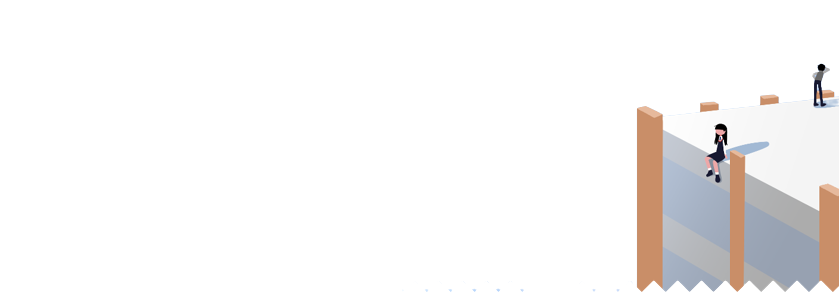
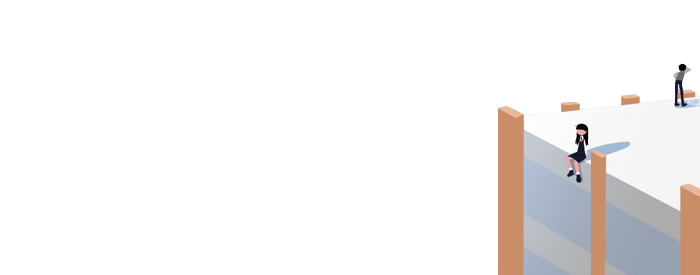
0623

Changed region(s): [[0.69, 0.32, 1.0, 1.0], [0.96, 0.2036, 1.0, 0.4073]]

diff --git a/React/react-study02/src/component/Survey/Page.js b/React/react-study02/src/component/Survey/Page.js
@@ -32,7 +32,17 @@ function Page1(props) {
             'Question' : '질문 4',
             'Answer' : ['대답 1','대답 2'],
             'Values' : ['T','J']
-        }];
+        },{
+            'id' : 4,
+            'Question' : '질문 5',
+            'Answer' : ['대답 1','대답 2'],
+            'Values' : ['바보','천재']
+        },{
+            'id' : 5,
+            'Question' : '질문 6',
+            'Answer' : ['대답 1','대답 2'],
+            'Values' : ['하이','바이']
+        },];
     const createQuestion = 
             Question.map((li,idx)=>
                 (<div className='Question'>

diff --git a/React/react-study02/src/component/Body/To.css b/React/react-study02/src/component/Body/To.css
@@ -9,7 +9,7 @@
     width: 100%;
     background-image: url('../../../public/img/bg1.png');
     background-repeat: no-repeat;
-    background-size: cover;
+    background-size:contain;
 }
 .middle-board img{
     width: 20rem;

diff --git a/React/react-study02/src/App.css b/React/react-study02/src/App.css
@@ -38,7 +38,7 @@ height: 100%;
   z-index: 0;
   background-image: url('../public/img/bg1.png');
   background-repeat: no-repeat;
-  background-size: cover;
+  background-size:contain;
 }
 .Home .Text{
   position: relative;

diff --git a/React/react-study02/src/component/Survey/page.css b/React/react-study02/src/component/Survey/page.css
@@ -63,7 +63,6 @@
     display: none;
 }
 .survey-unit label{
-    border-radius: 10px 10px 10px 10px;
     width: 100%;
     z-index: 1;
 }
